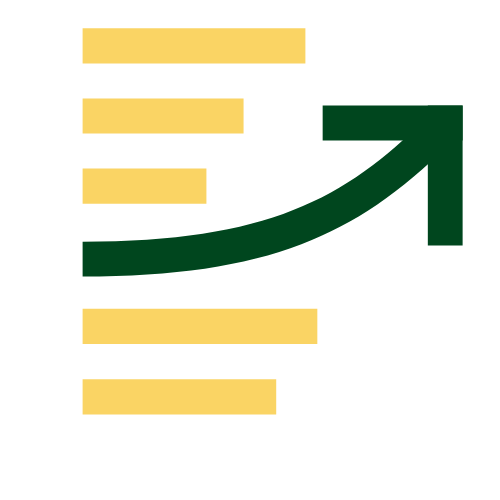
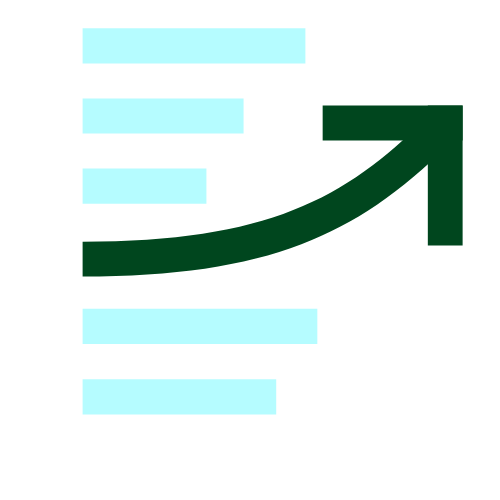
Update from Forestry.io Nisa Chitakasem created images/innovation-with-direction.png Nisa Chitakasem updated _specialisms/data-governance.md

diff --git a/_specialisms/data-governance.md b/_specialisms/data-governance.md
@@ -134,7 +134,7 @@ sections:
       Establishing ‘best in class’ data standards
 
       Learn more
-    image: "/images/Direction.svg"
+    image: "/images/data-standards.png"
     coloured: false
     image_mode: ''
   image_mode: icon
